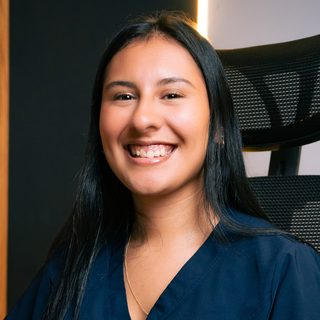
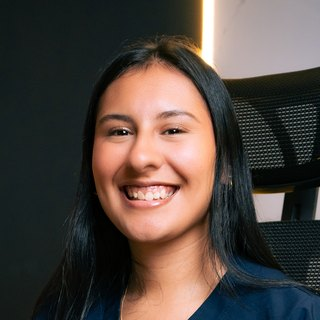
Reservar: burbujas del equipo con perfil de cada nutricionista

diff --git a/src/styles/reservar.css b/src/styles/reservar.css
@@ -78,11 +78,29 @@
 /* Pantalla 3: calendario del mes y horas del día */
 .sel-filtros { display: flex; flex-direction: column; gap: 8px; margin-bottom: 16px; }
 .sel-etq { font-size: .78rem; font-weight: 800; letter-spacing: .08em; text-transform: uppercase; color: var(--gold-ink); margin: 8px 0 4px; }
-.sel-modalidad, .sel-nutris { display: flex; gap: 8px; flex-wrap: wrap; }
-.sel-modalidad button, .sel-nutris button { display: inline-flex; align-items: center; gap: 8px; border: 1px solid var(--hair); background: var(--paper); border-radius: 999px; padding: 8px 16px; font: inherit; font-size: .9rem; font-weight: 600; cursor: pointer; color: var(--ink); }
-.sel-nutris button { padding: 4px 14px 4px 4px; }
-.sel-nutris img { width: 32px; height: 32px; border-radius: 50%; object-fit: cover; }
-.sel-modalidad button[aria-pressed=true], .sel-nutris button[aria-pressed=true] { background: var(--ink); color: #fff; border-color: var(--ink); }
+.sel-modalidad { display: flex; gap: 8px; flex-wrap: wrap; }
+.sel-modalidad button { display: inline-flex; align-items: center; gap: 8px; border: 1px solid var(--hair); background: var(--paper); border-radius: 999px; padding: 8px 16px; font: inherit; font-size: .9rem; font-weight: 600; cursor: pointer; color: var(--ink); }
+.sel-modalidad button[aria-pressed=true] { background: var(--ink); color: #fff; border-color: var(--ink); }
+/* Burbujas del equipo: laten suave hasta que eligen a alguien */
+.sel-nutris { display: flex; justify-content: flex-start; gap: 20px; flex-wrap: wrap; }
+.sel-nutris button { display: flex; flex-direction: column; align-items: center; gap: 6px; width: 80px; min-height: 104px; justify-content: flex-start; border: 0; background: none; padding: 0; font: inherit; font-size: .85rem; cursor: pointer; color: var(--ink); }
+.sel-nutris img { width: 64px; height: 64px; margin: 8px 0; border-radius: 50%; object-fit: cover; object-position: center 30%; border: 3px solid var(--paper); box-shadow: 0 0 0 1px var(--hair); transition: width .2s, height .2s, margin .2s, border-color .2s; }
+.sel-nutris button[aria-pressed=true] img { width: 80px; height: 80px; margin: 0; border-color: var(--gold-ink); box-shadow: none; }
+.sel-nutris button:focus-visible { outline: 2px solid var(--gold-ink); outline-offset: 4px; border-radius: 12px; }
+@keyframes sel-latido { 0%, 100% { transform: scale(1); } 50% { transform: scale(1.08); } }
+.sel-nutris:not(.sel-nutris--elegida) button { animation: sel-latido 2.4s ease-in-out infinite; }
+.sel-nutris button:nth-child(2) { animation-delay: .6s; }
+.sel-nutris button:nth-child(3) { animation-delay: 1.2s; }
+.sel-nutris button:nth-child(4) { animation-delay: 1.8s; }
+@media (prefers-reduced-motion: reduce) { .sel-nutris button { animation: none !important; } .sel-nutris img { transition: none; } }
+.sel-toca { margin: 0; font-size: .88rem; color: var(--muted); }
+.sel-perfil--abierta { background: var(--gold-pale); border-radius: 16px; padding: 16px; display: flex; flex-direction: column; gap: 10px; max-width: 560px; }
+.sel-perfil-tarjeta { display: flex; gap: 12px; align-items: center; }
+.sel-perfil-tarjeta img { width: 96px; height: 96px; border-radius: 16px; object-fit: cover; object-position: center 30%; flex-shrink: 0; }
+.sel-perfil-tarjeta b { display: block; font-size: 1.15rem; }
+.sel-perfil-tarjeta small { display: block; margin-top: 2px; font-size: .8rem; font-weight: 700; color: var(--gold-ink); }
+.sel-perfil p { margin: 0; font-size: .92rem; line-height: 1.55; color: #2B2B2B; }
+.sel-todas { align-self: flex-start; min-height: 44px; border: 0; background: none; padding: 0; font: inherit; font-size: .88rem; font-weight: 700; color: var(--gold-ink); text-decoration: underline; cursor: pointer; }
 .sel-proxima { display: flex; justify-content: space-between; align-items: center; gap: 12px; background: var(--gold-pale); border-radius: 12px; padding: 14px 16px; margin-bottom: 16px; }
 .sel-proxima[hidden] { display: none; }
 .sel-proxima small { display: block; color: var(--gold-ink); font-weight: 700; font-size: .85rem; }

diff --git a/src/data/nutricionistas.js b/src/data/nutricionistas.js
@@ -17,6 +17,9 @@
 // Nico alterna miércoles y sábado: viene el miércoles 28-oct-2026 y el sábado
 // 7-nov-2026 (Romi, 2026-10-15). Paolo alterna martes y sábado: viene el
 // sábado 17-oct-2026 y el martes 20-oct-2026 (Romi, 2026-10-15).
+//
+// `tema` y `perfil`: lo que ve el paciente al tocar su foto en /reservar/
+// (textos aprobados por Romi, 2026-10-29).
 
 export const nutricionistas = [
   {
@@ -24,6 +27,8 @@ export const nutricionistas = [
     nombre: 'Nico',
     apodos: ['nico'],
     foto: '/equipo/nico.jpg',
+    tema: 'Bariátrica · GLP-1 · TCA',
+    perfil: 'Tiene experiencia con pacientes bariátricos, en tratamiento con Ozempic o Mounjaro, y con trastornos de la conducta alimentaria. Te explica todo con números sencillos y se enfoca en lo que más influye en tu avance. Ideal si te gusta entender el porqué de cada cambio.',
     ventanas: [
       { dia: 'lunes', modalidad: null, desde: 11, hasta: 20 },
       { dia: 'martes', modalidad: null, desde: 11, hasta: 20 },
@@ -38,6 +43,8 @@ export const nutricionistas = [
     nombre: 'Paola',
     apodos: ['paola'],
     foto: '/equipo/paola.jpg',
+    tema: 'Ansiedad · Depresión · TCA',
+    perfil: 'Tiene experiencia con personas en tratamiento por ansiedad o depresión y con trastornos de la conducta alimentaria. Es muy paciente y te explica cada cambio con ejemplos de tu día a día. Ideal si la comida te genera estrés y prefieres avanzar a tu ritmo.',
     ventanas: [
       { dia: 'lunes', modalidad: 'video', desde: 14, hasta: 20 },
       { dia: 'miercoles', modalidad: null, desde: 14, hasta: 19 }, // a las 7 p. m. da la clase (Romi, 2026-10-15)
@@ -50,6 +57,8 @@ export const nutricionistas = [
     nombre: 'Jussara',
     apodos: ['jussara', 'yuyu'],
     foto: '/equipo/jussara.jpg',
+    tema: 'Nutrición hormonal',
+    perfil: 'Tiene experiencia en nutrición hormonal, como problemas de tiroides o temas ginecológicos. Es alegre y cuidadosa al hablar: si hay algo difícil que decirte, te lo explica claro y sin hacerte sentir mal. Ideal si quieres mejorar tu alimentación sin sentirte juzgada.',
     ventanas: [
       { dia: 'lunes', modalidad: null, desde: 10, hasta: 17 },
       { dia: 'martes', modalidad: null, desde: 10, hasta: 17 },
@@ -64,6 +73,8 @@ export const nutricionistas = [
     nombre: 'Paolo',
     apodos: ['paolo'],
     foto: '/equipo/paolo.jpg',
+    tema: 'Nutrición deportiva',
+    perfil: 'Tiene experiencia en nutrición deportiva, también con deportistas que compiten. Te habla claro y con números exactos de lo que necesitas comer. Ideal si entrenas o compites y quieres mejorar tu rendimiento con metas que puedas medir.',
     ventanas: [
       { dia: 'lunes', modalidad: null, desde: 14, hasta: 20 },
       { dia: 'martes', modalidad: null, desde: 14, hasta: 20, cadaDosSemanas: '2026-10-20' },
@@ -73,3 +84,6 @@ export const nutricionistas = [
     ],
   },
 ];
+
+// Lo que la web puede mostrar de cada una (sin horarios ni apodos).
+export const datosPublicos = ({ id, nombre, foto, tema, perfil }) => ({ id, nombre, foto, tema, perfil });

diff --git a/src/scripts/selector-horas.js b/src/scripts/selector-horas.js
@@ -37,6 +37,7 @@ export function montarSelector(raiz, { producto, duracion, onElegir, urlHoras, m
       <div class="sel-donde"></div>
       <p class="sel-etq">Elige a tu nutricionista</p>
       <div class="sel-nutris"></div>
+      <div class="sel-perfil" aria-live="polite"></div>
     </div>
     <div class="sel-proxima" hidden></div>
     <div class="sel-cuerpo">
@@ -81,8 +82,16 @@ export function montarSelector(raiz, { producto, duracion, onElegir, urlHoras, m
     raiz.querySelectorAll('[data-modalidad]').forEach((b) => b.setAttribute('aria-pressed', String(b.dataset.modalidad === estado.modalidad)));
     $('.sel-donde').replaceChildren(nodoDonde(estado.modalidad));
     const equipo = Object.fromEntries(estado.datos.nutricionistas.map((n) => [n.id, n]));
-    $('.sel-nutris').innerHTML = estado.datos.nutricionistas.map((n) => `<button type="button" data-filtro="${esc(n.id)}" aria-pressed="${estado.nutricionista === n.id}">`
-      + `${n.foto ? `<img src="${esc(n.foto)}" alt="">` : ''}${esc(n.nombre)}</button>`).join('');
+    // Burbujas con la cara de cada una: al tocar, se ve su perfil y solo sus horas.
+    $('.sel-nutris').classList.toggle('sel-nutris--elegida', Boolean(estado.nutricionista));
+    $('.sel-nutris').innerHTML = estado.datos.nutricionistas.map((n) => `<button type="button" data-filtro="${esc(n.id)}" aria-pressed="${estado.nutricionista === n.id}" aria-label="Ver perfil y horas de ${esc(n.nombre)}">`
+      + `${n.foto ? `<img src="${esc(n.foto)}" alt="">` : ''}<b>${esc(n.nombre)}</b></button>`).join('');
+    const elegida = equipo[estado.nutricionista];
+    $('.sel-perfil').classList.toggle('sel-perfil--abierta', Boolean(elegida?.perfil));
+    $('.sel-perfil').innerHTML = elegida?.perfil
+      ? `<div class="sel-perfil-tarjeta">${elegida.foto ? `<img src="${esc(elegida.foto)}" alt="">` : ''}<div><b>${esc(elegida.nombre)}</b><small>${esc(elegida.tema ?? '')}</small></div></div>`
+        + `<p>${esc(elegida.perfil)}</p><button type="button" class="sel-todas" data-filtro="${esc(elegida.id)}">Ver horas de todo el equipo</button>`
+      : '<p class="sel-toca">Toca una foto para conocer a tu nutricionista</p>';
 
     // Próxima hora disponible: la primera del primer día con horas.
     const horas = porFecha();

diff --git a/CHANGELOG.md b/CHANGELOG.md
@@ -4,7 +4,7 @@ Cambios visibles del sitio y de la reserva web, del más reciente al más antigu
 
 ## Pendiente de publicar (rama `reservas-pago`, versión de prueba)
 
-Nada por ahora.
+- Perfil de cada nutricionista en /reservar/ (opción 1 elegida por Romi, 2026-10-29): las fotos del equipo son burbujas que laten; al tocar una crece, aparece su perfil (tema y descripción) y el calendario muestra solo sus horas. «Ver horas de todo el equipo» quita el filtro. Fotos nuevas de Paola y Jussara.
 
 ## 2026-10-13 a 2026-10-29 · publicado
 
